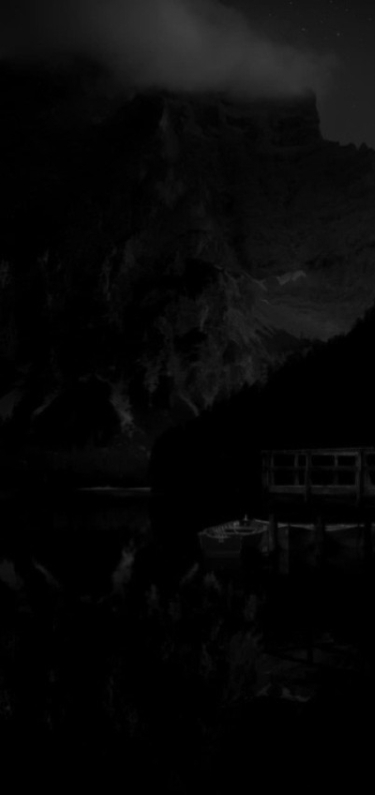
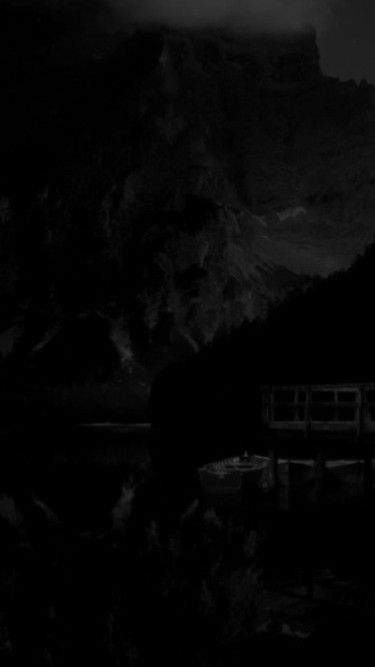
aaaaa

diff --git a/index.html b/index.html
@@ -21,12 +21,14 @@
 </head>
 
 <body class="home">
-  <!--<img src="/images/header-mobile.jpg"
-  srcset="/images/header-mobile.jpg 375w,
-  /images/header-tablet.jpg 768w,
-  /images/header-desktop.jpg 1920w"
-  sizes="(min-width:375px) 100vw, 100vw, 100vw"
-  alt="header">-->
+  <img src="/images/header-mobile.jpg"
+       srcset="/images/header-mobile.jpg 375w,
+               /images/header-tablet.jpg 768w,
+               /images/header-desktop.jpg 1200w"
+       sizes="(max-width: 375px),
+              (max-width: 768px),
+           (max-width:1200px)"
+       alt="header">
 
   <a class="skip-to-content" href="#main">Skip to content</a>
 

diff --git a/index.css b/index.css
@@ -390,7 +390,7 @@ body {
   background-size: cover;
   background-position: bottom center;
 }
- /*home */
+ /*home *
 .home {
   background-image: url(./images/header-mobile.jpg);
 
@@ -409,7 +409,7 @@ body {
     background-image: url(./images/header-desktop.jpg);
 
   }
-}
+}*/
 
 @container(min-width > 768px){
  .wrapper{
